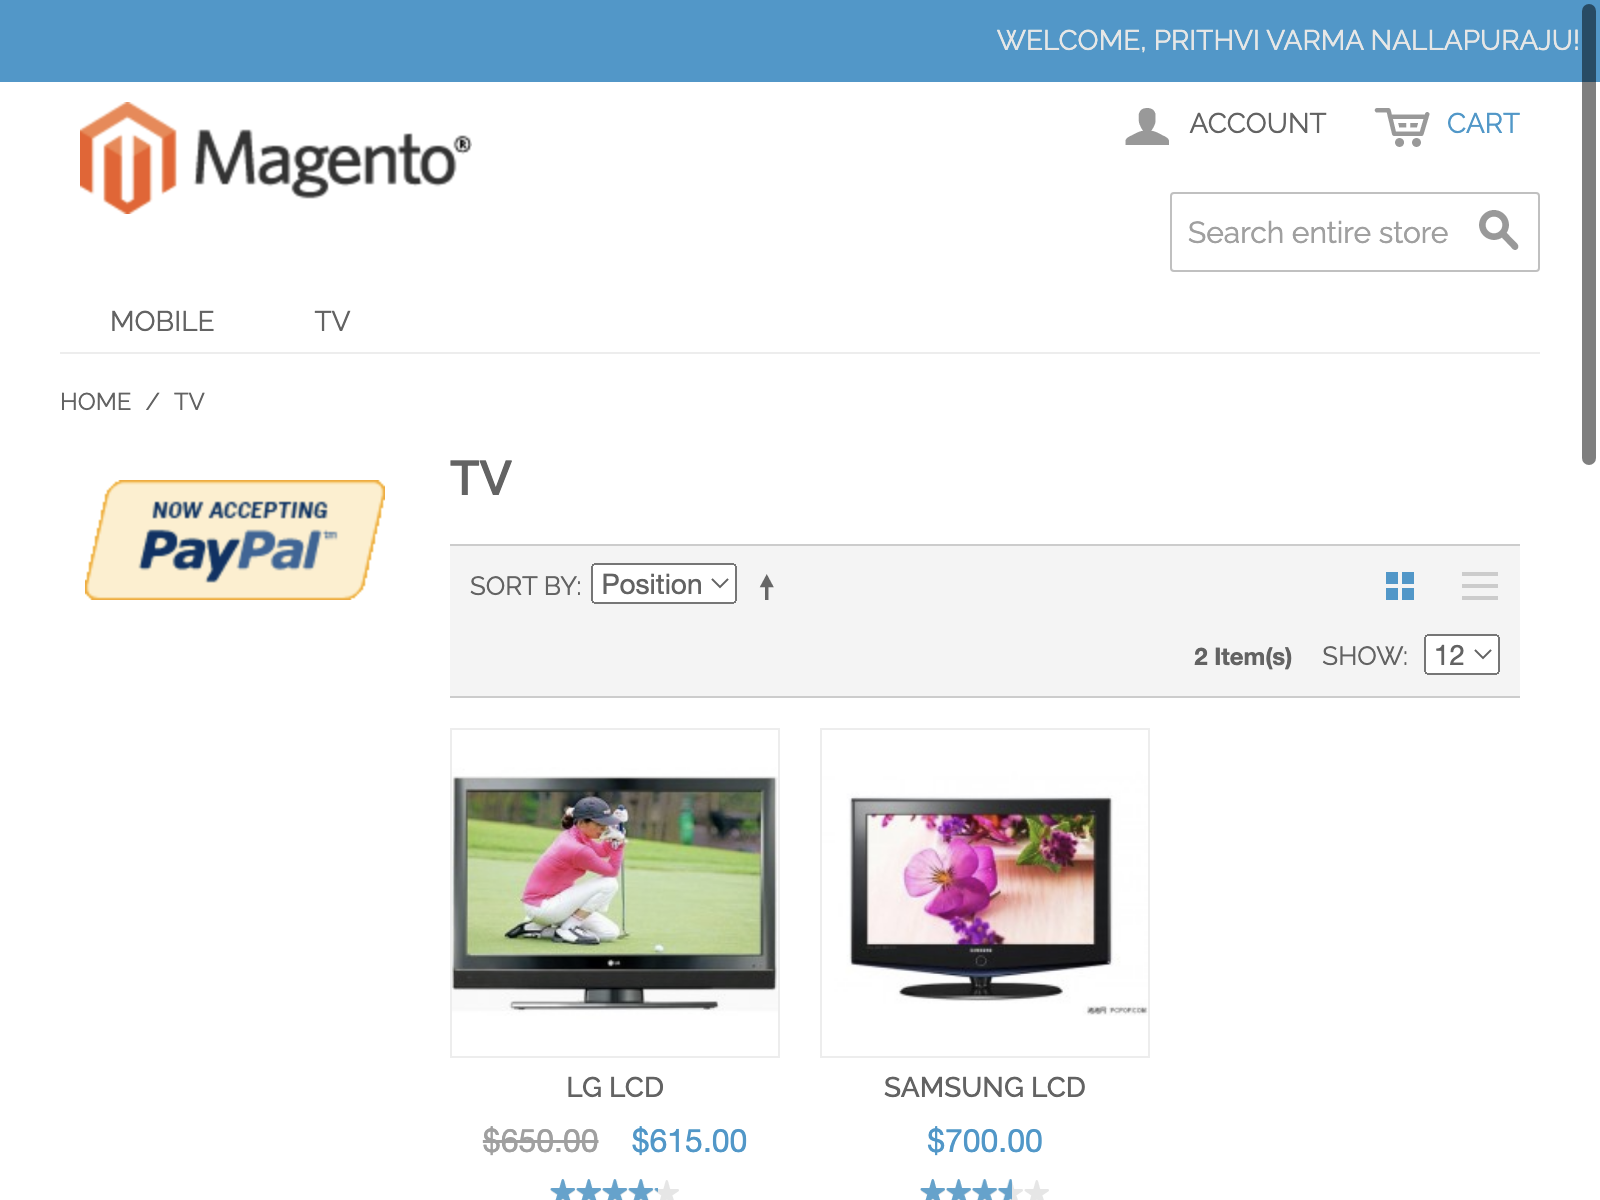
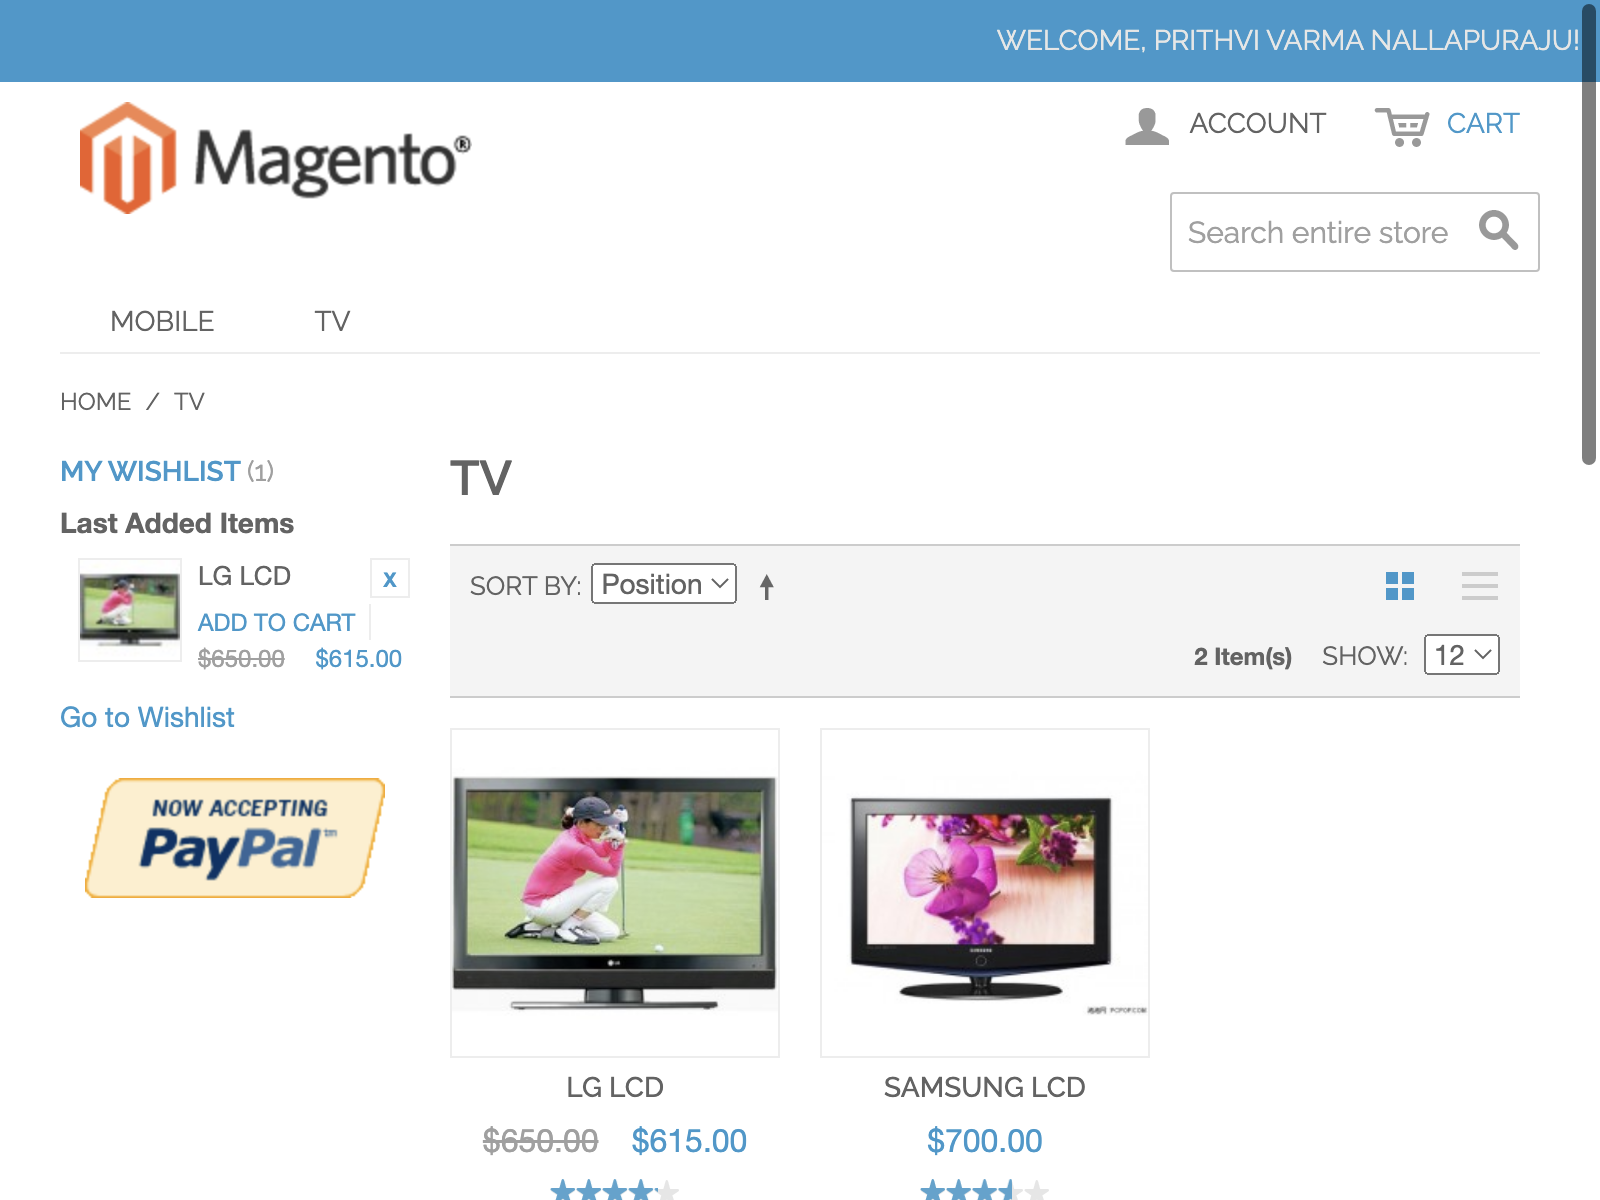
completed 5th test case in day 5

Changed region(s): [[0.0312, 0.37, 0.25, 0.555], [0.0312, 0.6475, 0.25, 0.7708], [0.0312, 0.5858, 0.1562, 0.6167]]

diff --git a/Scripts/Day5/ShareWishlist.js b/Scripts/Day5/ShareWishlist.js
@@ -1,0 +1,76 @@
+const { until, By } = require("selenium-webdriver")
+const { screenshot } = require('../../utils/Screenshot')
+const { delay } = require('../../utils/Delay')
+const mainpath = require('path')
+require('dotenv').config({path: mainpath.join(__dirname,'../../.env')})
+
+let screenshotPath
+
+const shareWishlist = async (brwsr, folder, driver, email) => {
+
+    await driver.manage().setTimeouts({ implicit : 10000 })
+
+    try{
+
+        const shareElement = await driver.wait(until.elementLocated(By.xpath("//button[@title='Share Wishlist']")))
+        await driver.wait(until.elementIsVisible(shareElement))
+        await shareElement.click()
+
+        await delay(1000)
+
+        if(process.env.CAPTURE_SCREENSHOTS == 'true'){
+            await delay(3000)
+            screenshotPath = mainpath.join(__dirname, `../../Outputs/${brwsr}/${folder}`,'before_share.png')
+            await screenshot(driver, screenshotPath)
+        }
+
+        await delay(1000)
+
+        const emailElement = await driver.wait(until.elementLocated(By.id("email_address")))
+        await driver.wait(until.elementIsVisible(emailElement))
+        await emailElement.clear()
+        await emailElement.sendKeys(email)
+
+        await delay(1000)
+
+        const messageElement = await driver.wait(until.elementLocated(By.id("message")))
+        await driver.wait(until.elementIsVisible(messageElement))
+        await messageElement.clear()
+        await messageElement.sendKeys(`This is the wish list I am sharing to ${email}`)
+
+        await delay(1000)
+
+        if(process.env.CAPTURE_SCREENSHOTS == 'true'){
+            await delay(3000)
+            screenshotPath = mainpath.join(__dirname, `../../Outputs/${brwsr}/${folder}`,'after_share.png')
+            await screenshot(driver, screenshotPath)
+        }
+
+        await delay(1000)
+
+        const shareButtonElement = await driver.wait(until.elementLocated(By.xpath("//button[@title='Share Wishlist']")))
+        await driver.wait(until.elementIsVisible(shareButtonElement))
+        await shareButtonElement.click()
+
+        await delay(1000)
+
+        if(process.env.CAPTURE_SCREENSHOTS == 'true'){
+            await delay(3000)
+            screenshotPath = mainpath.join(__dirname, `../../Outputs/${brwsr}/${folder}`,'success_share.png')
+            await screenshot(driver, screenshotPath)
+        }
+
+        return true
+
+    }catch(error){
+        console.error
+        return false
+    }finally{
+        driver.quit()
+    }
+
+}
+
+module.exports = {
+    shareWishlist
+}

diff --git a/tests/Firefox/Day5.test.js b/tests/Firefox/Day5.test.js
@@ -1,4 +1,4 @@
-const { driverSetup, getHomePageTitle, clickOnMyAccount, accountCreation, login, goToTV } = require('../index')
+const { driverSetup, getHomePageTitle, clickOnMyAccount, accountCreation, login, goToTV, shareWishlist } = require('../index')
 
 let result, driver = driverSetup('firefox')
 
@@ -26,6 +26,11 @@ describe('verifying the functionalities given on day 5', () => {
 
     test('add tv to wishlist using Firefox Browser', async () => {
         result = await goToTV('Firefox', 'Day5', driver)
+        expect(result).toBe(true)
+    }, 100000)
+
+    test('share wishlist to an email id using Firefox browser', async () => {
+        result = await shareWishlist('Firefox', 'Day5', driver , 'prithvivarma2@gmail.com')
         expect(result).toBe(true)
     }, 100000)
 

diff --git a/tests/Edge/Day5.test.js b/tests/Edge/Day5.test.js
@@ -1,4 +1,4 @@
-const { driverSetup, getHomePageTitle, clickOnMyAccount, accountCreation, login, goToTV } = require('../index')
+const { driverSetup, getHomePageTitle, clickOnMyAccount, accountCreation, login, goToTV, shareWishlist } = require('../index')
 
 let result, driver = driverSetup('edge')
 
@@ -26,6 +26,11 @@ describe('verifying the functionalities given on day 5', () => {
 
     test('add tv to wishlist using Edge Browser', async () => {
         result = await goToTV('Edge', 'Day5', driver)
+        expect(result).toBe(true)
+    }, 100000)
+
+    test('share wishlist to an email id using Edge browser', async () => {
+        result = await shareWishlist('Edge', 'Day5', driver , 'prithvivarma3@gmail.com')
         expect(result).toBe(true)
     }, 100000)
 

diff --git a/tests/Chrome/Day5.test.js b/tests/Chrome/Day5.test.js
@@ -1,4 +1,4 @@
-const { driverSetup, getHomePageTitle, clickOnMyAccount, accountCreation, login, goToTV } = require('../index')
+const { driverSetup, getHomePageTitle, clickOnMyAccount, accountCreation, login, goToTV, shareWishlist } = require('../index')
 
 let result, driver = driverSetup('chrome')
 
@@ -29,5 +29,11 @@ describe('verifying the functionalities given on day 5', () => {
         result = await goToTV('Chrome', 'Day5', driver)
         expect(result).toBe(true)
     }, 100000)
+
+    test('share wishlist to an email id using Chrome browser', async () => {
+        result = await shareWishlist('Chrome', 'Day5', driver , 'prithvivarma4@gmail.com')
+        expect(result).toBe(true)
+    }, 100000)
+
 
 })

diff --git a/tests/Safari/Day5.test.js b/tests/Safari/Day5.test.js
@@ -1,5 +1,5 @@
 const { driverSetup } = require('../../utils/Driver')
-const { getHomePageTitle, clickOnMyAccount, accountCreation, login, goToTV } = require('../index')
+const { getHomePageTitle, clickOnMyAccount, accountCreation, login, goToTV, shareWishlist } = require('../index')
 
 let result, driver = driverSetup('safari')
 
@@ -30,5 +30,9 @@ describe('verifying the functionalities given on day 5', () => {
         expect(result).toBe(true)
     }, 100000)
 
+    test('share wishlist to an email id using Safari browser', async () => {
+        result = await shareWishlist('Safari', 'Day5', driver , 'prithvivarma1@gmail.com')
+        expect(result).toBe(true)
+    }, 100000)
     
 })

diff --git a/tests/index.js b/tests/index.js
@@ -15,7 +15,7 @@ const { clickOnMyAccount } = require('../Scripts/Day5/ClickOnMyAccount')
 const { accountCreation } = require('../Scripts/Day5/AccountCreation')
 const { login } = require('../Scripts/Day5/Login')
 const { goToTV } = require('../Scripts/Day5/GoToTV')
-
+const { shareWishlist } = require('../Scripts/Day5/ShareWishlist')
 
 module.exports = {
    
@@ -34,6 +34,7 @@ module.exports = {
     clickOnMyAccount,
     accountCreation,
     login,
-    goToTV
+    goToTV,
+    shareWishlist
     
 }   
